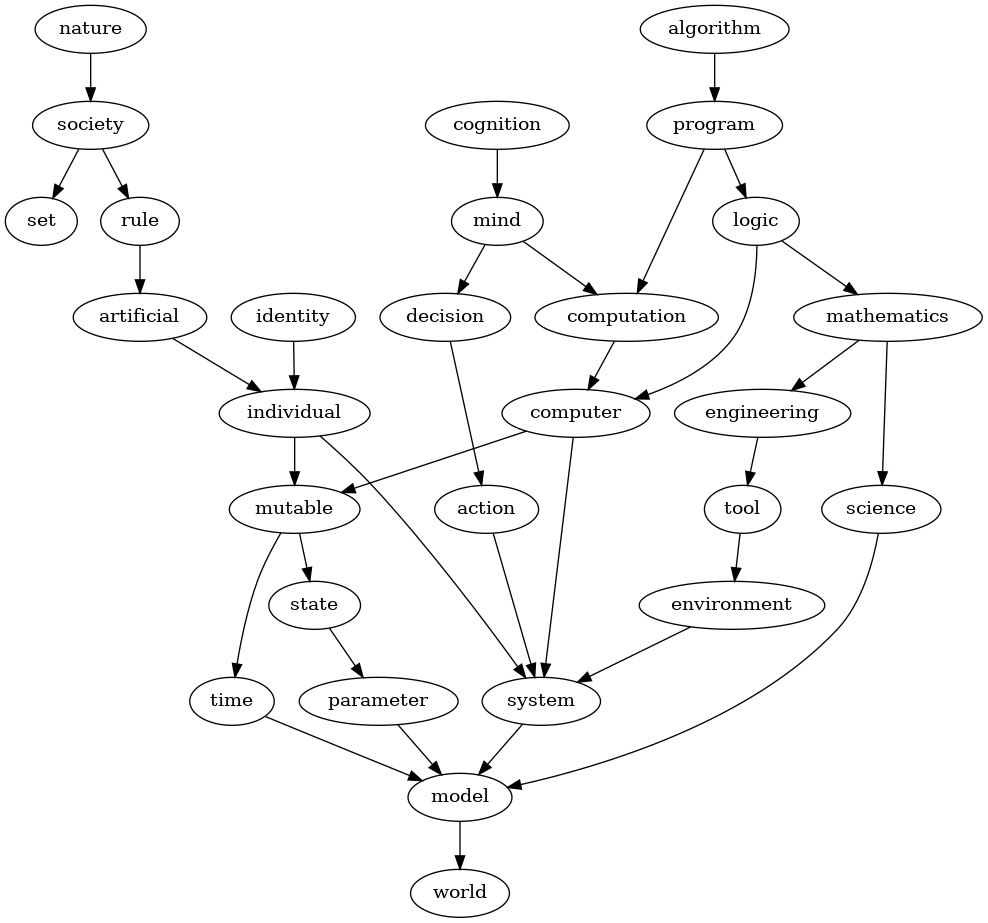
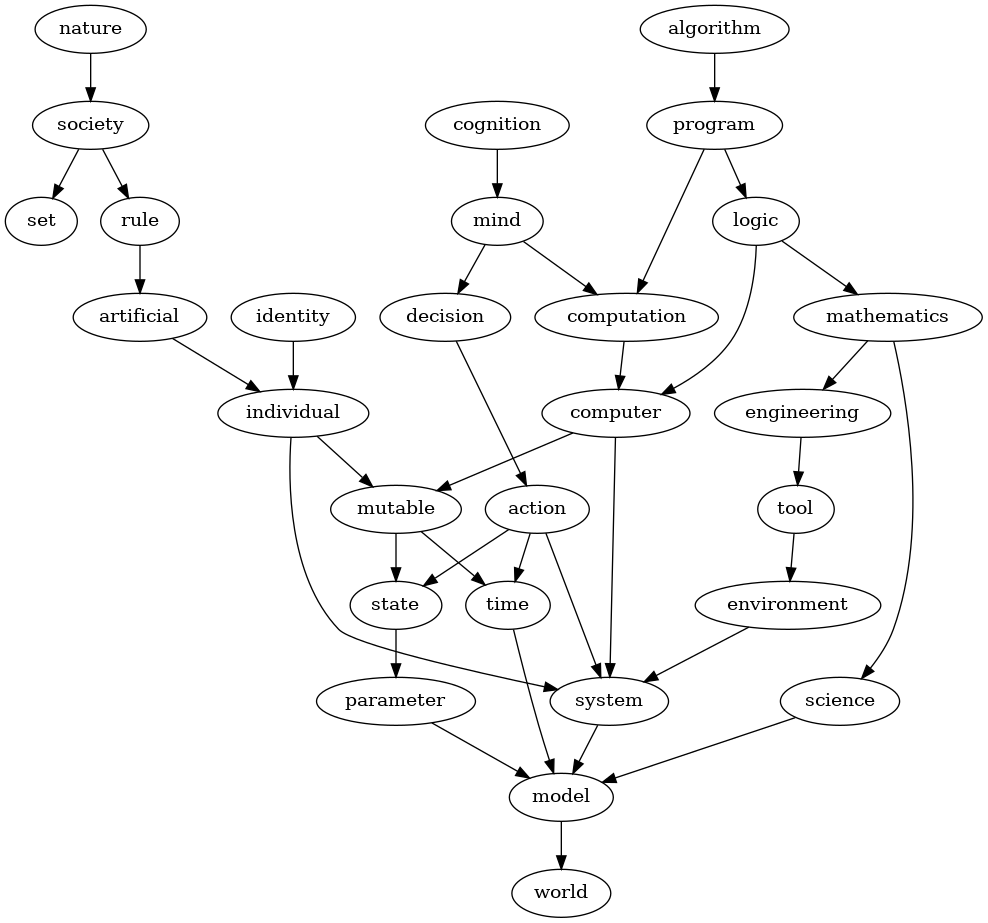
Add links between definitions

diff --git a/docs/2020-09-12-dictionary/index.html b/docs/2020-09-12-dictionary/index.html
@@ -43,10 +43,10 @@
 <p><span id="vanity-6d617468656d6174696373"></span><strong>mathematics</strong>: <span class="vanity-contents">The study of the structure of unambiguous statements. Mathematics are useful for dealing with <a href="#vanity-6d6f64656c" class="vanity-term-link">models</a> in <a href="#vanity-736369656e6365" class="vanity-term-link">science</a>, <a href="#vanity-656e67696e656572696e67" class="vanity-term-link">engineering</a>, and other fields of study.</span></p>
 <p><span id="vanity-636f6d7075746572"></span><strong>computer</strong>: <span class="vanity-contents">A finite <a href="#vanity-73797374656d" class="vanity-term-link">system</a> that reads discrete instructions and carries them out predictably. A computer can be <a href="#vanity-6d6f64656c" class="vanity-term-link">represented</a> as a sequence of <a href="#vanity-7374617465" class="vanity-term-link">states</a> comprising a <a href="#vanity-6d757461626c65" class="vanity-term-link">mutable</a>, discrete storage space. Turing machines are idealized representations of computers with unbounded storage or memory; they are used in theoretical studies for proving some properties of computers. This definition excludes hypercomputers, which would allow solving problems that Turing machines cannot, such as the halting problem.</span></p>
 <p><span id="vanity-6c6f676963"></span><strong>logic</strong>: <span class="vanity-contents">The <a href="#vanity-6d617468656d6174696373" class="vanity-term-link">mathematical</a> subfield of logic. It is focused on the general properties of formal systems and characterizing what can and cannot be done with mathematics and <a href="#vanity-636f6d7075746572" class="vanity-term-link">computers</a>.</span></p>
-<p><span id="vanity-636f6d7075746174696f6e"></span><strong>computation</strong>: <span class="vanity-contents">The successive states of a <a href="#vanity-636f6d7075746572" class="vanity-term-link">computer</a>.</span></p>
+<p><span id="vanity-636f6d7075746174696f6e"></span><strong>computation</strong>: <span class="vanity-contents">The <a href="#vanity-74696d65" class="vanity-term-link">successive</a> <a href="#vanity-7374617465" class="vanity-term-link">states</a> of a <a href="#vanity-636f6d7075746572" class="vanity-term-link">computer</a>.</span></p>
 <p><span id="vanity-70726f6772616d"></span><strong>program</strong>: <span class="vanity-contents">A computer program in the usual sense. A program consists of a finite collection of instructions that can be executed by a computer or by a Turing machine. A program may or may not take external input. In theoretical studies, the input is often baked into the program or into the initial state of the computer's memory. A program may or not terminate. Determining whether a program terminates is not always possible, which is known as the halting problem. A program can be viewed as a mathematical proof and vice-versa, which is known as the Curry-Howard correspondence, and offers a link between <a href="#vanity-6c6f676963" class="vanity-term-link">logic</a> and <a href="#vanity-636f6d7075746174696f6e" class="vanity-term-link">computation</a>.</span></p>
 <p><span id="vanity-616c676f726974686d"></span><strong>algorithm</strong>: <span class="vanity-contents">An algorithm is a <a href="#vanity-70726f6772616d" class="vanity-term-link">program</a> that terminates.</span></p>
-<p><span id="vanity-616374696f6e"></span><strong>action</strong>: <span class="vanity-contents">A change in a <a href="#vanity-73797374656d" class="vanity-term-link">system</a> that determines a change elsewhere in the <a href="#vanity-776f726c64" class="vanity-term-link">world</a> <a href="#vanity-6d6f64656c" class="vanity-term-link">model</a>, possibly in the system itself.</span></p>
+<p><span id="vanity-616374696f6e"></span><strong>action</strong>: <span class="vanity-contents">A change in two <a href="#vanity-74696d65" class="vanity-term-link">successive</a> <a href="#vanity-7374617465" class="vanity-term-link">states</a> of a <a href="#vanity-73797374656d" class="vanity-term-link">system</a> that determines a change elsewhere in the <a href="#vanity-776f726c64" class="vanity-term-link">world</a> <a href="#vanity-6d6f64656c" class="vanity-term-link">model</a>, possibly in the system itself.</span></p>
 <p><span id="vanity-6465636973696f6e"></span><strong>decision</strong>: <span class="vanity-contents">An <a href="#vanity-616374696f6e" class="vanity-term-link">action</a> of a <a href="#vanity-73797374656d" class="vanity-term-link">system</a> onto itself, in particular when examining a small selection of possible actions that are mutually exclusive.</span></p>
 <p><span id="vanity-6d696e64"></span><strong>mind</strong>: <span class="vanity-contents">The components of a <a href="#vanity-73797374656d" class="vanity-term-link">system</a> that make it more durable independently from its other properties. This tentative definition is meant to incorporate the dualist notion that the mind is separate from the rest of the body and somewhat optional, while emphasizing that it's only a simplified model useful for studying <a href="#vanity-6465636973696f6e" class="vanity-term-link">decision</a> <a href="#vanity-636f6d7075746174696f6e" class="vanity-term-link">processes</a>.</span></p>
 <p><span id="vanity-636f676e6974696f6e"></span><strong>cognition</strong>: <span class="vanity-contents">The properties of a <a href="#vanity-6d696e64" class="vanity-term-link">mind</a>.</span></p>

diff --git a/src/2020-09-12-dictionary/index.md b/src/2020-09-12-dictionary/index.md
@@ -174,8 +174,9 @@ systems and characterizing what can and cannot be done with mathematics
 and
 [computers](#vanity-636f6d7075746572){.vanity-term-link}.]{.vanity-contents}
 
-[]{#vanity-636f6d7075746174696f6e}**computation**: [The successive
-states of a
+[]{#vanity-636f6d7075746174696f6e}**computation**: [The
+[successive](#vanity-74696d65){.vanity-term-link}
+[states](#vanity-7374617465){.vanity-term-link} of a
 [computer](#vanity-636f6d7075746572){.vanity-term-link}.]{.vanity-contents}
 
 []{#vanity-70726f6772616d}**program**: [A computer program in the usual
@@ -194,7 +195,9 @@ between [logic](#vanity-6c6f676963){.vanity-term-link} and
 [program](#vanity-70726f6772616d){.vanity-term-link} that
 terminates.]{.vanity-contents}
 
-[]{#vanity-616374696f6e}**action**: [A change in a
+[]{#vanity-616374696f6e}**action**: [A change in two
+[successive](#vanity-74696d65){.vanity-term-link}
+[states](#vanity-7374617465){.vanity-term-link} of a
 [system](#vanity-73797374656d){.vanity-term-link} that determines a
 change elsewhere in the [world](#vanity-776f726c64){.vanity-term-link}
 [model](#vanity-6d6f64656c){.vanity-term-link}, possibly in the system
